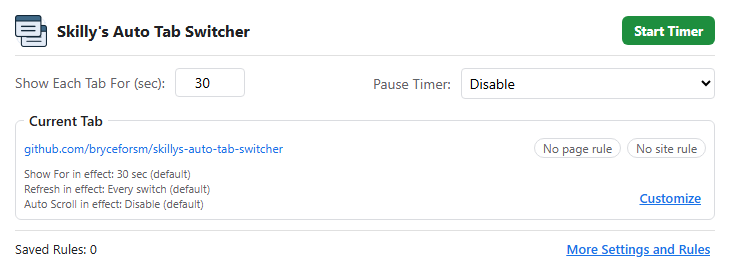
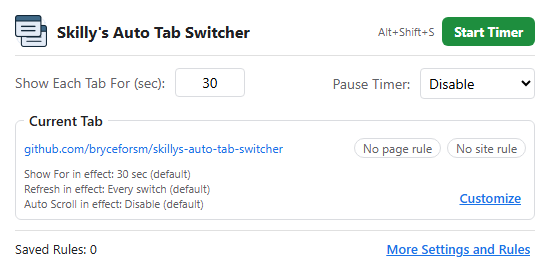
Update README screenshots and enhance popup rendering in scripts

diff --git a/.github/skills/store-screenshots/assets/mock.js b/.github/skills/store-screenshots/assets/mock.js
@@ -38,7 +38,7 @@
         windows: { getCurrent: async () => ({ id: 1 }) },
         commands: { getAll: async () => [{ name: 'toggle-timer', shortcut: 'Alt+Shift+S' }] },
         tabs: { query: async () => [{ id: 1, url: 'https://github.com/bryceforsm/skillys-auto-tab-switcher' }], create() {} },
-        runtime: { getManifest: () => ({ version: '2.1.2' }), sendMessage: async () => ({ running: !outOfBox }), connect: () => ({ postMessage() {} }), openOptionsPage() {} }
+        runtime: { getManifest: () => ({ version: '2.1.2' }), sendMessage: async () => ({ running: !outOfBox, seconds: 12, paused: false, loading: false }), connect: () => ({ postMessage() {} }), openOptionsPage() {} }
     };
 
     document.addEventListener('DOMContentLoaded', () => {

diff --git a/TabSwitcherExtension/popup.html b/TabSwitcherExtension/popup.html
@@ -20,6 +20,10 @@
             color: #202124;
             margin: 0;
         }
+        /* The rule editor needs two columns, so only the collapsed popup can be narrower. */
+        body:has(#ruleFields[hidden]) {
+            width: 520px;
+        }
         h2 {
             margin: 0;
             font-size: 16px;

diff --git a/.github/skills/store-screenshots/SKILL.md b/.github/skills/store-screenshots/SKILL.md
@@ -18,6 +18,8 @@ Renders the real `popup.html` and `rules.html` with sample data in headless Edge
    | File | Use |
    |---|---|
 | `Screenshots/readme/screenshot.png` | README image (popup with out-of-box settings, light and dark diagonal split, light 1px frame on the dark half, square corners) |
+   | `Screenshots/readme/popup-light.png`, `popup-dark.png` | README Screenshots section (popup with a page rule, unframed) |
+   | `Screenshots/readme/popup-defaults.png` | Out-of-box popup, unframed, light theme (not used by the README) |
    | `Screenshots/webstore/popup-light.png`, `popup-dark.png` | 1280x800 store screenshots |
 | `Screenshots/webstore/popup-defaults.png` | 1280x800, out-of-box settings with no rules and the timer stopped |
    | `Screenshots/webstore/rules-light.png`, `rules-edit-dark.png` | 1280x800 store screenshots |
